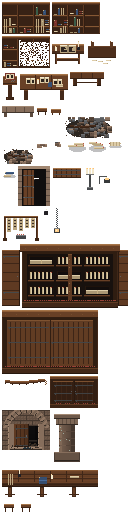
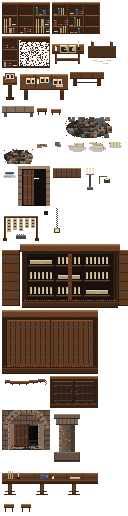
art(archive-room): table board rebuilt as a surface with objects standing on the front lip

Changed region(s): [[0.0, 0.8992, 0.7812, 0.9612]]

diff --git a/prototypes/environment_art/archive_audition/art_src/author_archive_art.py b/prototypes/environment_art/archive_audition/art_src/author_archive_art.py
@@ -1348,59 +1348,75 @@ def prop_column(seed: int) -> Image.Image:
 
 
 def prop_long_table(seed: int, bays: int = 3) -> Image.Image:
-    """The refectory table: one long board on trestles (96 x 34)."""
+    """The refectory table: one long board on trestles (32 x bays wide, 34 tall).
+
+    Read bottom-up: trestle feet, open space, the board's thickness, then the
+    top surface receding away from the camera. Objects stand ON that surface
+    with their bases on its front lip -- if they straddle the lip the table reads
+    as a wall with things glued to it. The whole sprite is only as tall as it
+    needs to be so the hall stays legible at gameplay zoom.
+    """
     rng = random.Random(seed)
     w = 32 * bays
     img = new(w, 34)
-    # Board read as a top surface plus a front edge: a single slab of wood this
-    # tall reads as a wall of timber rather than a table you can work at.
-    for y in range(6, 18):
+
+    # ---- top surface: the board seen from above, receding upwards ----------
+    top_y0, top_y1 = 9, 16          # 8 rows of surface
+    for y in range(top_y0, top_y1):
         for x in range(w):
-            v = 0.94 + 0.05 * ((x * 3 + y * 5) % 3)
+            # light falls from the front-left; the far edge is a touch dimmer
+            depth = (y - top_y0) / max(1, top_y1 - top_y0 - 1)
+            v = 0.98 - 0.10 * depth + 0.04 * ((x * 3 + y * 5) % 3)
             px(img, x, y, shade(WOOD_M, v))
-    hline(img, 0, 6, w, WOOD_L)
-    # lengthwise plank seams and cross joints at each bay
-    for y in (10, 14):
-        hline(img, 0, y, w, shade(WOOD_D, 0.94))
+    hline(img, 0, top_y0, w, shade(WOOD_L, 1.04))       # far edge catches light
+    # plank seams: one lengthwise, kept subtle so it is grain, not a rail
+    hline(img, 0, top_y0 + 4, w, shade(WOOD_D, 1.02))
     for x in range(16, w, 16):
-        vline(img, x, 7, 11, shade(WOOD_D, 0.9))
-    # front edge, five pixels: thickness, a highlight, a shadow beneath
-    rect(img, 0, 18, w, 5, shade(WOOD_D, 0.94))
-    hline(img, 0, 18, w, shade(WOOD_M, 1.02))
-    hline(img, 0, 20, w, shade(WOOD_D, 0.8))
-    hline(img, 0, 22, w, shade(WOOD_D, 0.6))
-    # trestles
+        vline(img, x, top_y0 + 1, top_y1 - top_y0 - 1, shade(WOOD_D, 1.02))
+
+    # ---- the board's thickness: the front lip ------------------------------
+    lip_y0, lip_y1 = top_y1, top_y1 + 4
+    rect(img, 0, lip_y0, w, lip_y1 - lip_y0, shade(WOOD_D, 0.90))
+    hline(img, 0, lip_y0, w, shade(WOOD_M, 1.06))        # lit top of the lip
+    hline(img, 0, lip_y1 - 1, w, shade(WOOD_D, 0.62))    # shadow under the lip
+
+    # ---- trestles ----------------------------------------------------------
     for x in range(6, w, 32):
-        rect(img, x, 23, 4, 10, shade(WOOD_D, 0.95))
-        rect(img, x + 1, 24, 2, 8, WOOD_M)
-        hline(img, x - 3, 30, 10, shade(WOOD_D, 0.9))
-    # objects along the board: manuscripts, candle, ink, stack
-    for i in range(0, bays):
+        rect(img, x, lip_y1, 4, 10, shade(WOOD_D, 0.95))
+        rect(img, x + 1, lip_y1 + 1, 2, 8, WOOD_M)
+        hline(img, x - 3, lip_y1 + 7, 10, shade(WOOD_D, 0.9))
+        hline(img, x - 4, lip_y1 + 10, 12, shade(WOOD_D, 0.78))  # the foot
+
+    # ---- things left on the board -----------------------------------------
+    # bases sit on the front lip so every object is unmistakably ON the table
+    base = top_y1 - 1
+    for i in range(bays):
         bx = i * 32
         kind = (i * 5 + seed) % 4
-        if kind == 0:
-            rect(img, bx + 4, 9, 10, 8, PARCH)
-            hline(img, bx + 4, 9, 10, PARCH_L)
-            vline(img, bx + 9, 9, 8, shade(PARCH_D, 0.9))
-            for line in range(4):
-                hline(img, bx + 5, 11 + line, 3, INK)
-                hline(img, bx + 11, 11 + line, 2, INK)
-        elif kind == 1:
+        if kind == 0:                       # an open manuscript, ink still wet
+            rect(img, bx + 4, base - 6, 11, 6, PARCH)
+            hline(img, bx + 4, base - 6, 11, PARCH_L)
+            vline(img, bx + 9, base - 6, 6, shade(PARCH_D, 0.9))
+            for line in range(2):
+                hline(img, bx + 5, base - 5 + line * 2, 3, INK)
+                hline(img, bx + 11, base - 5 + line * 2, 2, INK)
+        elif kind == 1:                     # quires standing, a quill in the well
             for k in range(3):
-                vline(img, bx + 6 + k * 2, 11, 10, PARCH_D)
-                px(img, bx + 6 + k * 2, 10, THREAD)
-            rect(img, bx + 16, 10, 3, 3, (32, 30, 34))
-            vline(img, bx + 17, 6, 4, PARCH_L)
-        elif kind == 2:
-            rect(img, bx + 5, 13, 8, 7, BIND_BLUE)
-            px(img, bx + 5, 13, THREAD)
-            hline(img, bx + 5, 16, 8, shade(BIND_BLUE, 1.4))
-            rect(img, bx + 17, 11, 2, 4, PARCH_L)
-            px(img, bx + 17, 10, (255, 214, 150))
-        else:
-            # an abandoned place: a stool tipped back, page on the table
-            hline(img, bx + 4, 12, 9, PARCH)
-            hline(img, bx + 4, 13, 9, PARCH_D)
+                vline(img, bx + 6 + k * 2, base - 7, 7, PARCH_D)
+                px(img, bx + 6 + k * 2, base - 8, THREAD)
+            rect(img, bx + 15, base - 2, 3, 2, (30, 28, 32))
+            vline(img, bx + 16, base - 7, 5, shade(PARCH_L, 0.9))
+        elif kind == 2:                     # a bound codex, closed
+            rect(img, bx + 5, base - 4, 9, 4, BIND_BLUE)
+            hline(img, bx + 5, base - 4, 9, shade(BIND_BLUE, 1.45))
+            vline(img, bx + 5, base - 4, 4, shade(BIND_BLUE, 0.7))
+            px(img, bx + 13, base - 3, THREAD)
+            rect(img, bx + 18, base - 2, 2, 2, shade(PARCH_L, 0.95))
+            px(img, bx + 19, base - 3, (255, 214, 150))   # a guttering wick
+        else:                               # abandoned mid-copy: sheet, no book
+            hline(img, bx + 4, base - 2, 10, PARCH)
+            hline(img, bx + 4, base - 1, 10, PARCH_D)
+            px(img, bx + 9, base - 3, INK)
     return img
 
 
